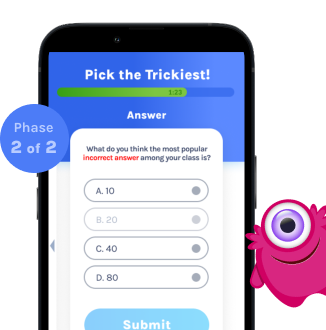
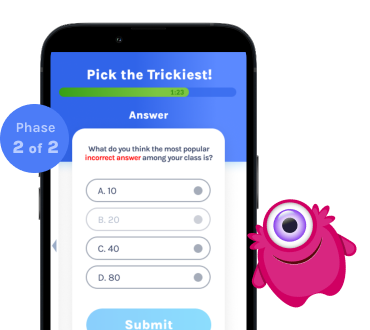
changed images to include monster's whole bodies, unsure how to center images according to phone in the image as opposed to the whole image

diff --git a/mobile/src/Student/screens/StudentGameIntro/IntroInfo/index.js b/mobile/src/Student/screens/StudentGameIntro/IntroInfo/index.js
@@ -1,6 +1,7 @@
 import React from 'react'
-import { StyleSheet, Text, View, Image } from 'react-native'
+import { StyleSheet, Text, View, Image, Dimensions } from 'react-native'
 import { fontFamilies, fonts, colors } from '../../../../utils/theme'
+const win = Dimensions.get('window');
 
 const IntroInfo = ({ image, text }) => {
     return (
@@ -24,6 +25,8 @@ const styles = StyleSheet.create({
         backgroundColor: 'rgba(0,0,0,0)',
     },
     image: {
+        // width: win.width,
+        // height: win.width,
         resizeMode: 'cover',
     },
     text: {
